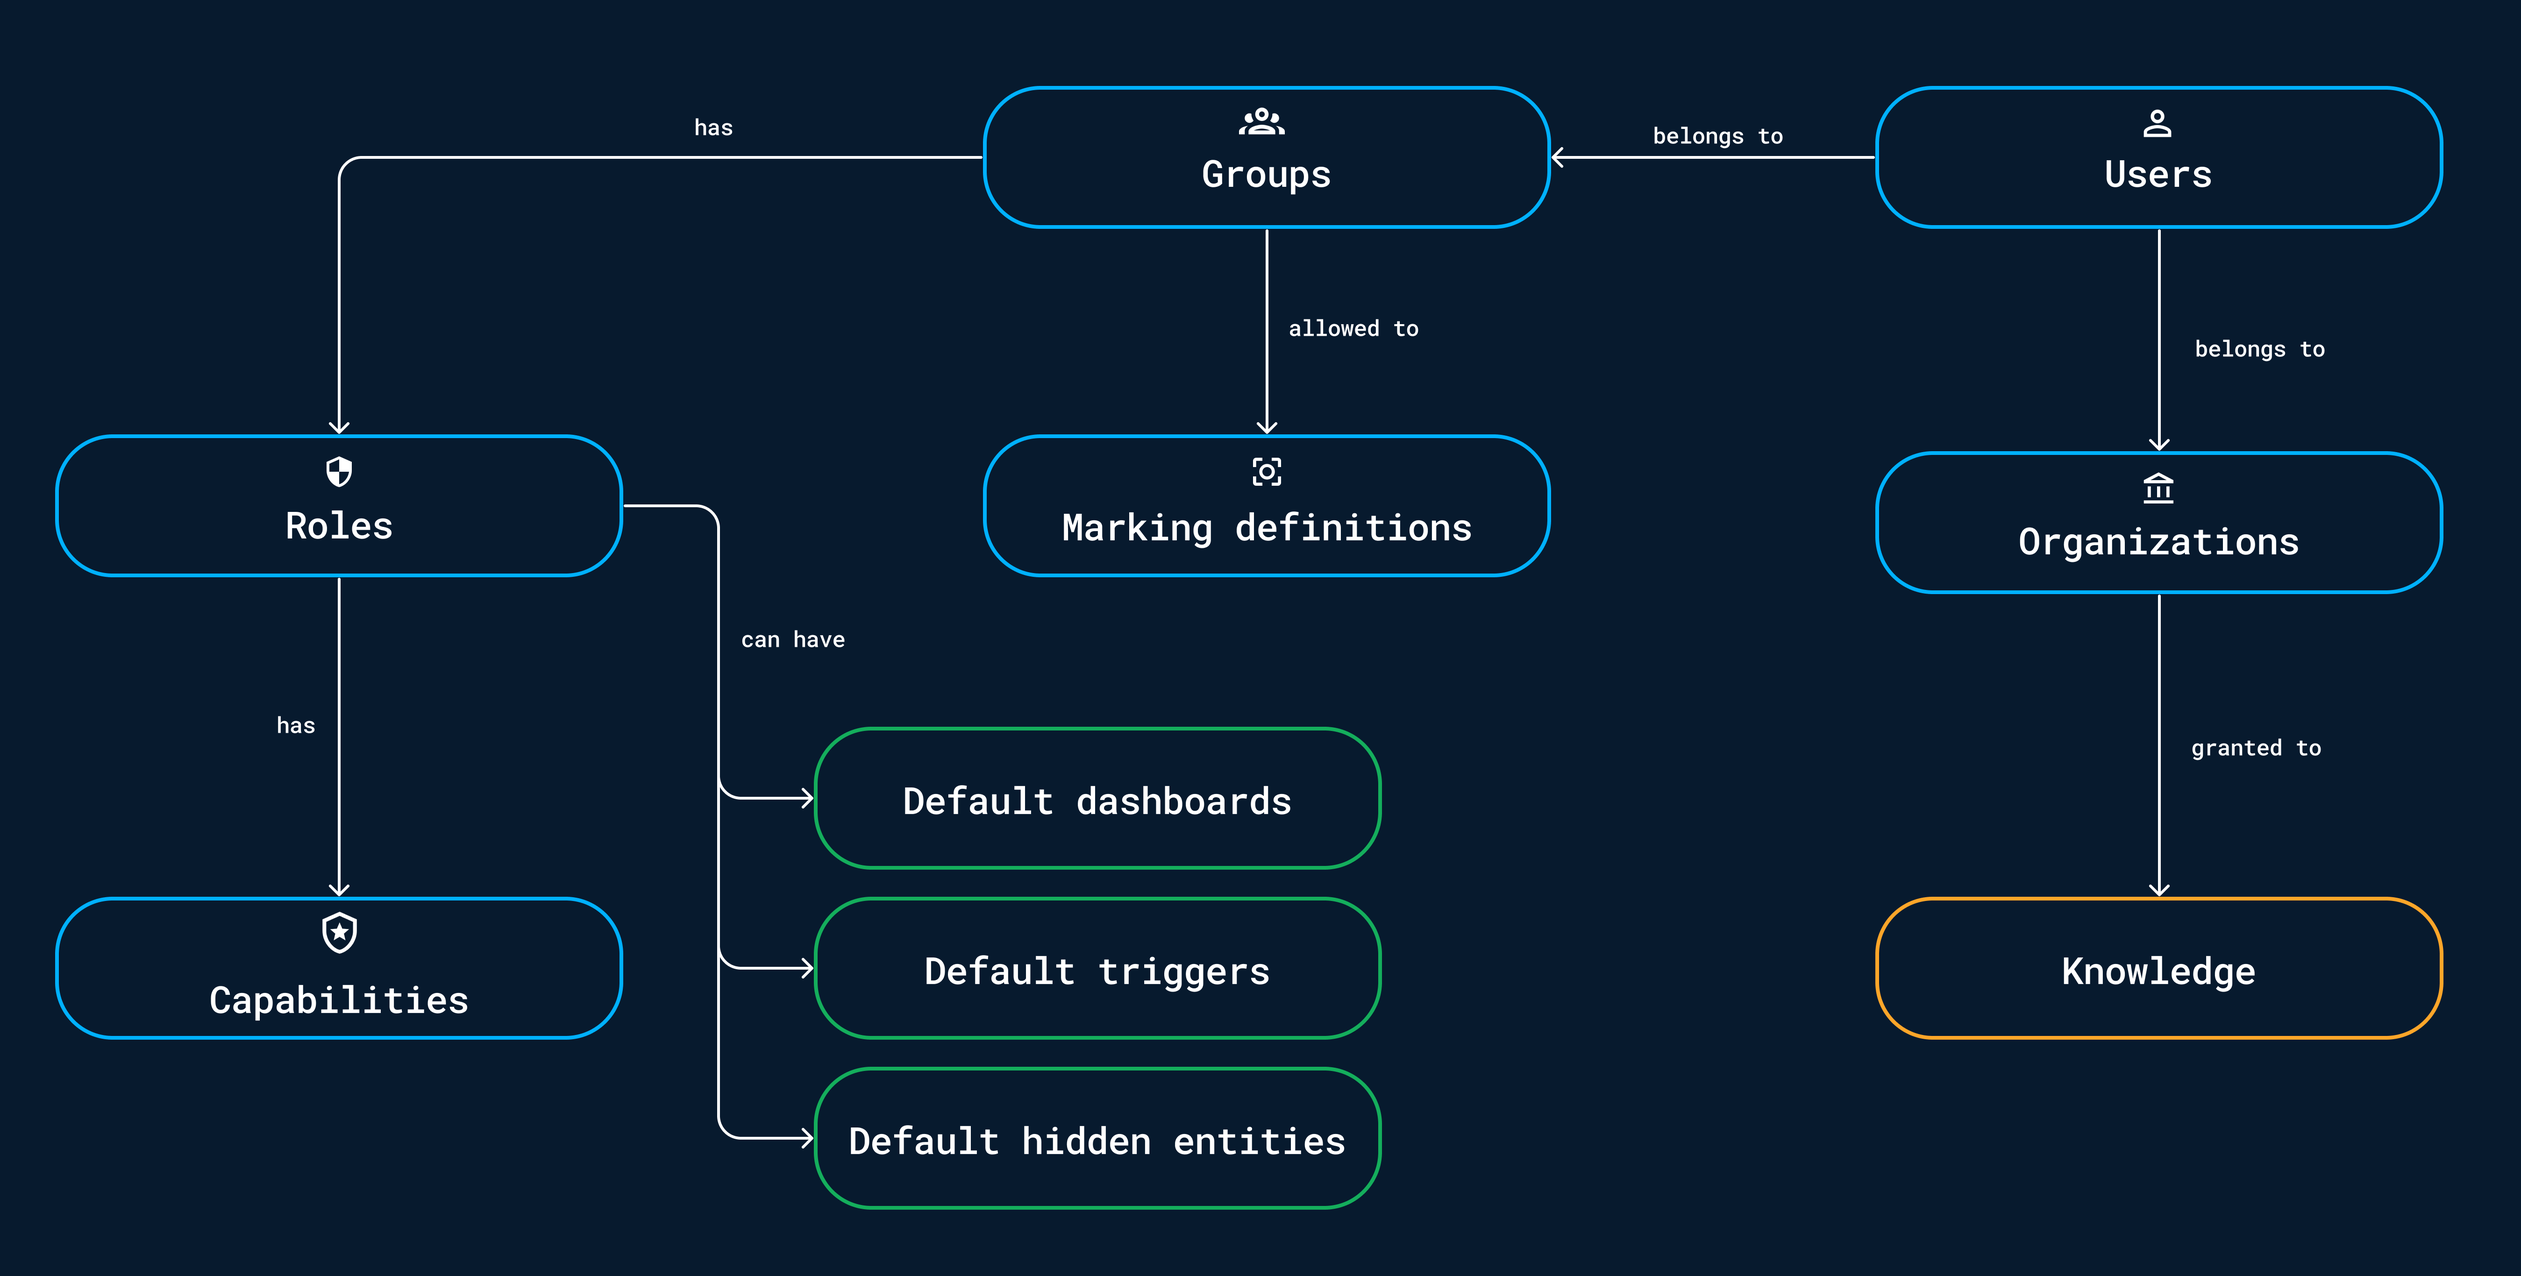
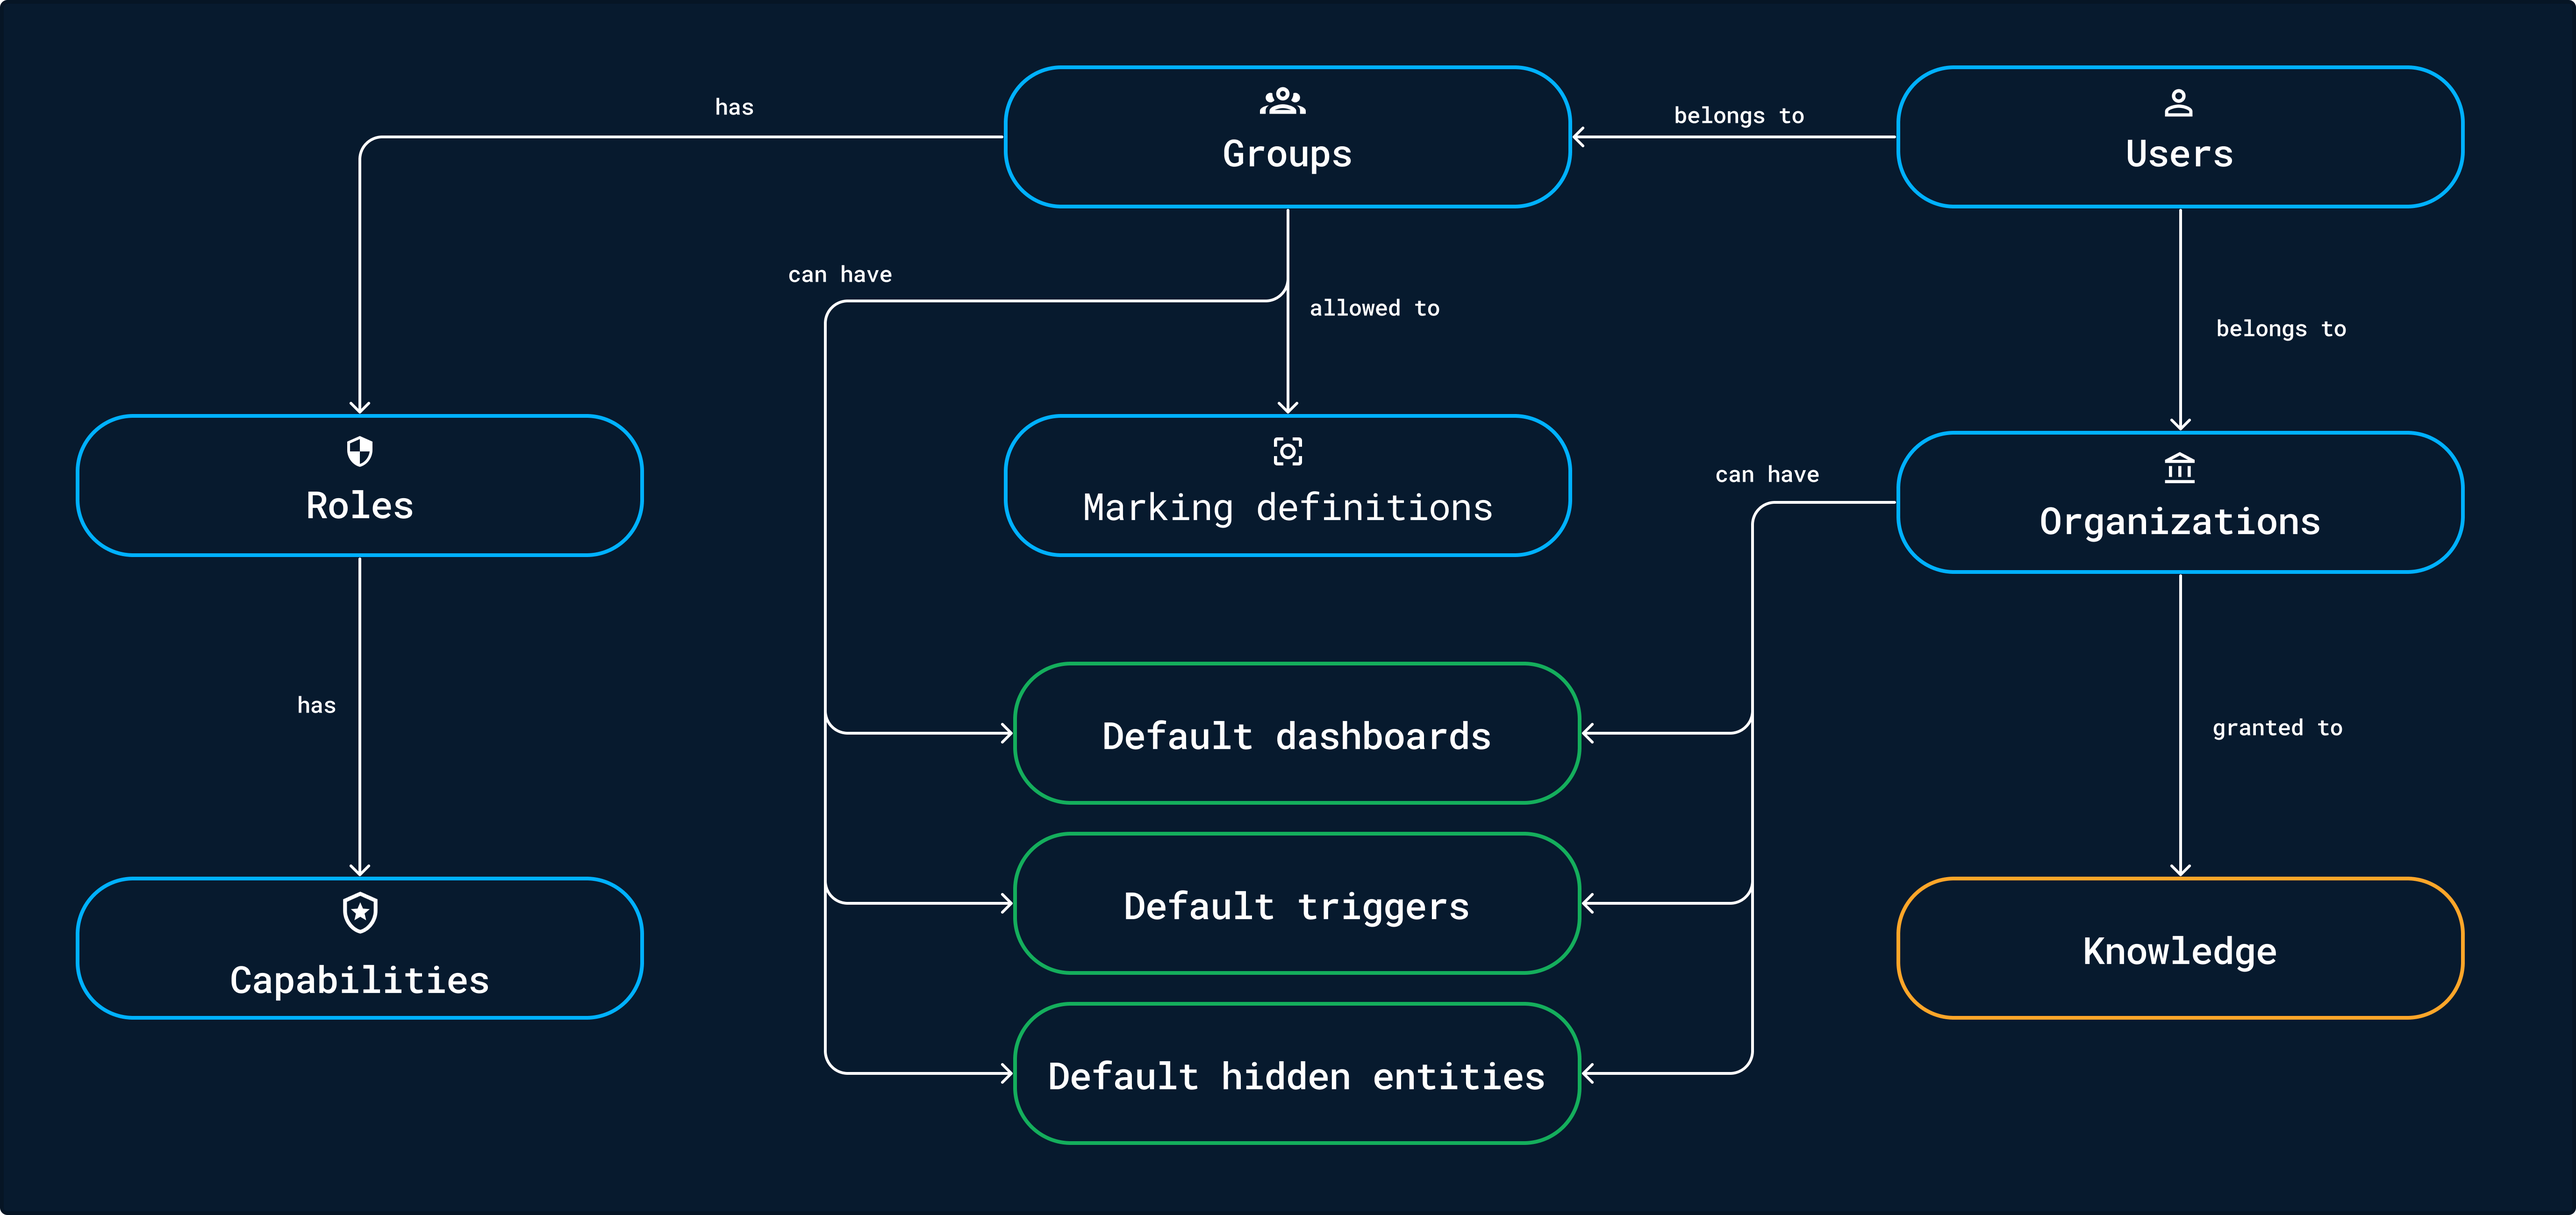
[administration] Update the RBAC schema

diff --git a/docs/administration/users.md b/docs/administration/users.md
@@ -2,8 +2,15 @@
 
 ## Introduction
 
-In OpenCTI, RBAC features are 
+In OpenCTI, the RBAC system not only related to what users can do or cannot do in the platform (aka. `Capabilities`) but also to the system of [data segregation](segregation.md). Also, platform behaviour such as default home dashboards, default triggers and digests as well as default hidden menus or entities can be defined across groups and organizations.
 
+## High level design
 
 ![RBAC](assets/rbac.png)
+
+## List of capabilities
+
+| Capability                               | Description                                                          |
+| :--------------------------------------- | :------------------------------------------------------------------- |
+|                                          | Nothing                                                              |                                                                                 
 

diff --git a/docs/usage/exploring-cases.md b/docs/usage/exploring-cases.md
@@ -12,7 +12,7 @@ From the `Cases` section, users can access the following tabs:
 - `Tasks`: In every case, you need tasks to be performed in order to solve it. The Tasks tab allows you to review all created tasks to quickly see past due date, or quickly see every task assigned to a specific user.
 - `Feedbacks`: If you use your platform to interact with other teams and provide them CTI Knowledge, some users may want to give you feedback about it. Those feedbacks can easily be considered as an other type of case to solve, as it will often reffer to Knowledge inconsistency or gaps.
 
-![Cases Default page is Incident Response](assets/Cases-landing-page.png)
+![Cases Default page is Incident Response](assets/cases-landing-page.png)
 
 ## Incident Response, Request for Information & Request for Takedown
 
